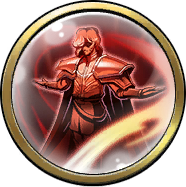
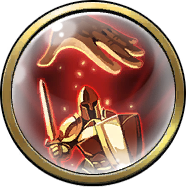
2020-01-04
에마링크 각성 아이콘 추가

diff --git a/hero/에마링크.html b/hero/에마링크.html
@@ -801,7 +801,7 @@
 						<td>-</td>
 					</tr>
 					<tr>
-						<th>-</th>
+						<th><img src="../img/Super/에마링크_1.png" width="100" /></th>
 						<td colspan="3">[액티브] 이하 스킬중 택일하여 사용
 						</br> 자신에게 <b><font color = "blue">초절 강화</font>의 특수 효과가 있을 경우</b> 사용 후 <font color ="red">3</font>칸 재행동 
 						</br><b>(해당 재행동은 버프 지속 시간을 소모하지 않음)</b>
@@ -831,7 +831,7 @@
 						<td>단일</td>
 					</tr>
 					<tr>
-						<th><img src="../img/Super/에마링크_1.png" width="100" /></th>
+						<th><img src="../img/Super/에마링크_2.png" width="100" /></th>
 						<td colspan="3">[액티브] 단일 부대에 <font color = "blue">장막의 그림자</font> 효과 부여 : 
 						</br>[지휘] <b>인접한 모든 적 이동력 -1 및 호위 불가</b>,
 						</br>지속 <font color = "red">2</font>행동
@@ -861,7 +861,7 @@
 						<td>단일</td>
 					</tr>
 					<tr>
-						<th><img src="../img/Super/에마링크_2.png" width="100" /></th>
+						<th><img src="../img/Super/에마링크_3.png" width="100" /></th>
 						<td colspan="3">[액티브] 단일 부대에 <font color = "blue">반계</font> 효과 부여 : 
 						</br><b>전투 진입 전 자신에게 걸린 디버프</b> <font color = "red">4</font>개 제거,
 						</br>제거하는 디버프 <font color = "red">1</font>개당 생명 <font color = "red">15</font>% 회복, 
